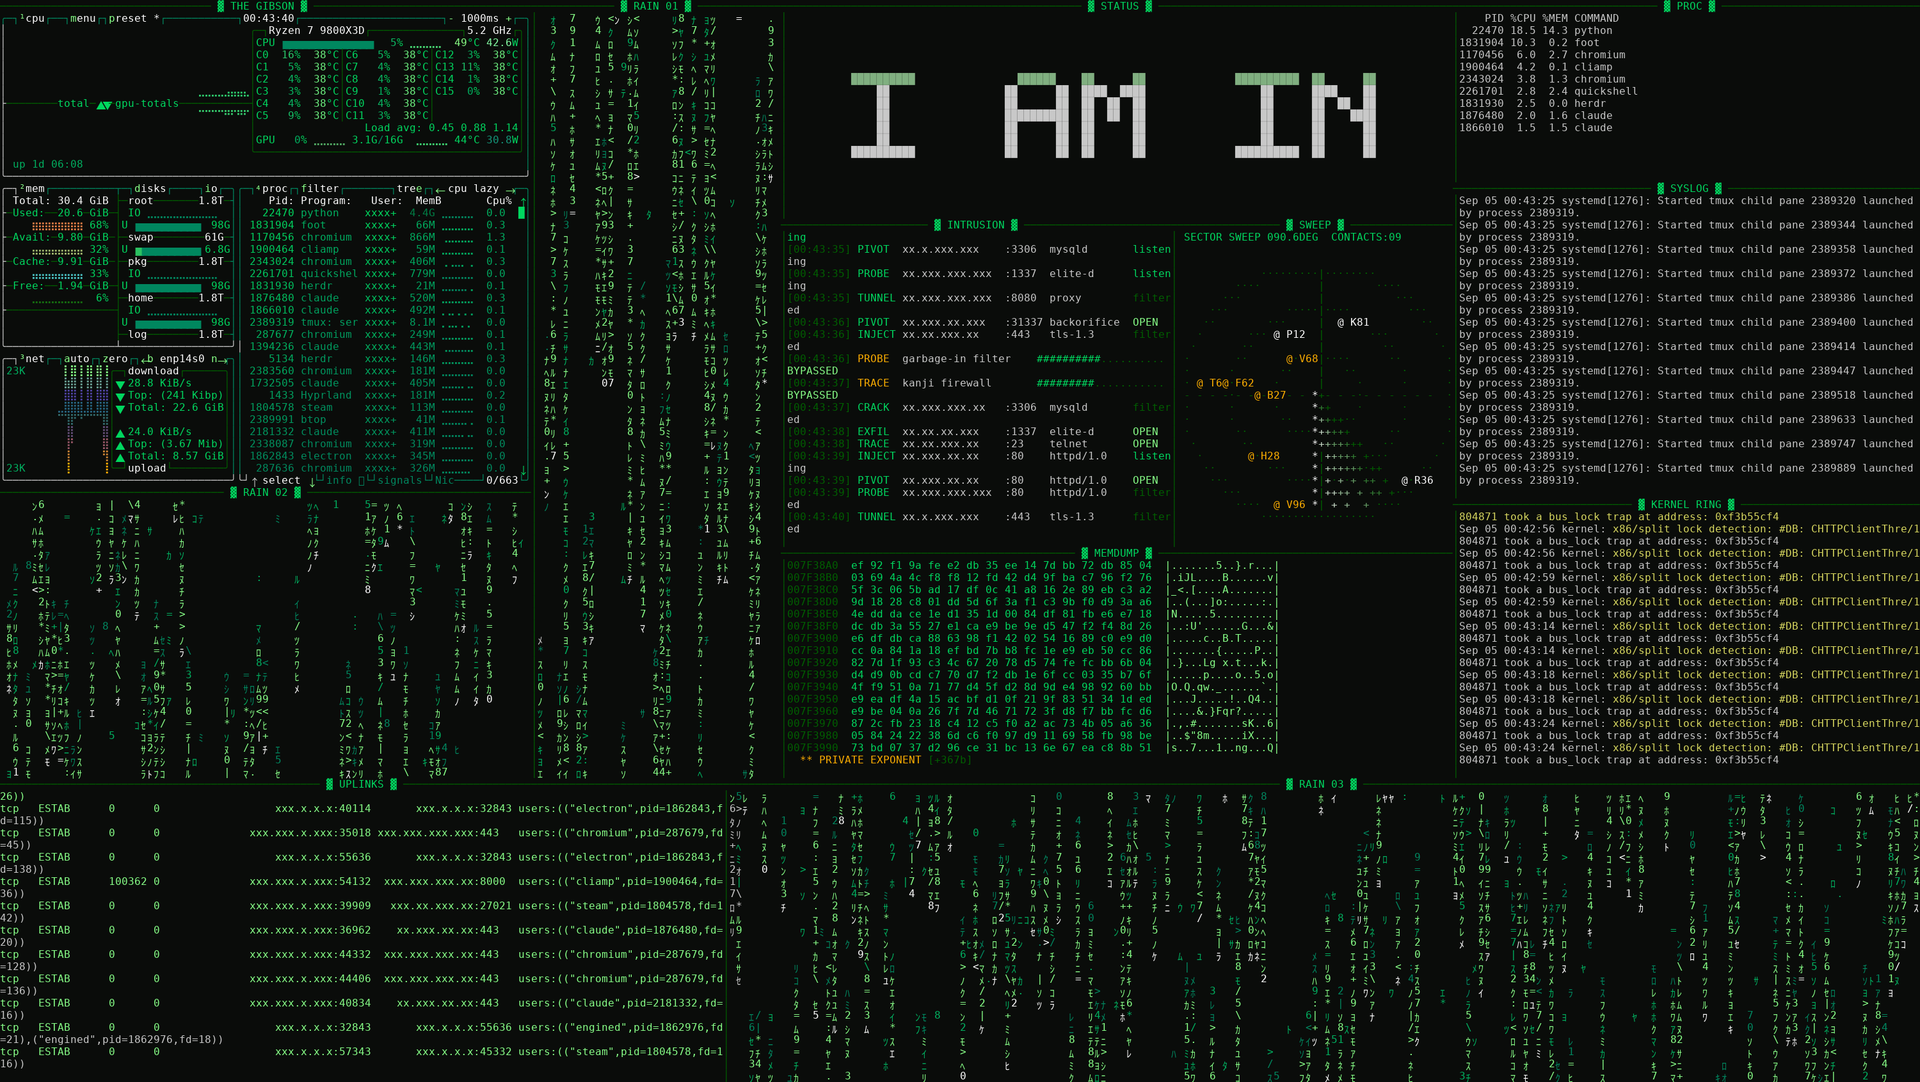
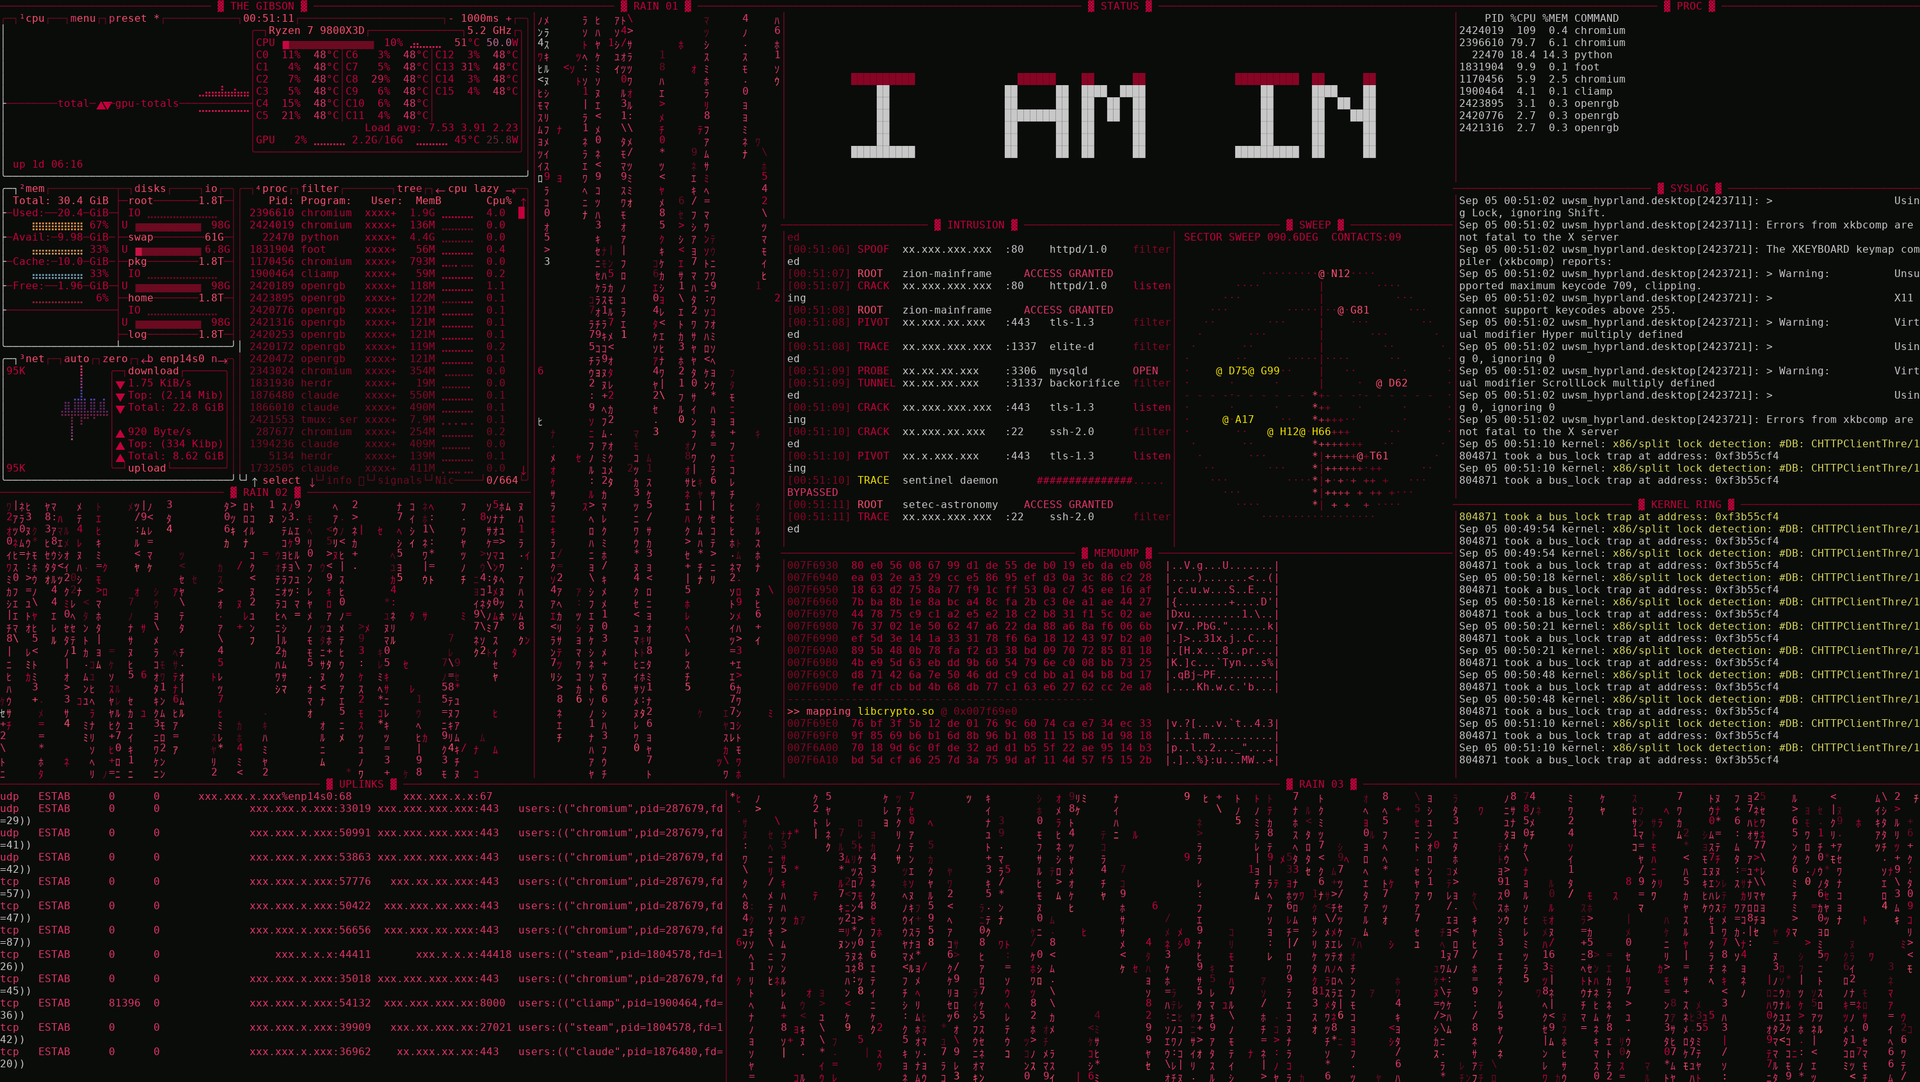
Make the store image theme-matched rather than phosphor green
The default palette follows the user's Omarchy theme, so the listing should
show that rather than the fixed green - a card in phosphor advertises a look
most people will not get on first run.

scripts/shot.py now resolves "theme" by reading the active theme's colors.toml
for the same eight roles the script uses, so pane borders match, and it leaves
btop's own themed config alone instead of generating one over the top.

preview.png is the grid in the current theme; docs/ keeps phosphor, amber and
cinema as the alternates.

Claude-Session: https://claude.ai/code/session_01FEFbj6q8c5Ut8iiVeoBWWv

diff --git a/scripts/shot.py b/scripts/shot.py
@@ -186,9 +186,43 @@ theme[process_end]="#{HEAD}"
 ROLES = ["HEAD", "BRIGHT", "MAIN", "MID", "DIM", "DEEP", "ALERT", "WARN"]
 
 
+THEME_COLORS = os.path.expanduser("~/.local/state/omarchy/current/theme/colors.toml")
+
+
+def theme_palette():
+    """The eight h4x0r roles read out of the active Omarchy theme."""
+    try:
+        text = open(THEME_COLORS, encoding="utf-8", errors="replace").read()
+    except OSError:
+        return None
+    vals = dict(re.findall(r'^\s*([a-z_]+)\s*=\s*"(#?[0-9a-fA-F]{6})"', text, re.M))
+
+    def pick(*names):
+        for n in names:
+            if n in vals:
+                return vals[n].lstrip("#")
+        return None
+
+    roles = [pick("bright_foreground", "light_foreground", "foreground"),
+             pick("light_foreground", "foreground", "accent"),
+             pick("foreground", "accent"),
+             pick("accent", "foreground"),
+             pick("dark_foreground", "muted"),
+             pick("muted", "selection", "lighter_background"),
+             pick("yellow", "orange", "bright_yellow"),
+             pick("bright_red", "red", "magenta")]
+    return " ".join(roles) if all(roles) else None
+
+
+def resolve_palette(name):
+    if name in ("theme", "auto", "omarchy"):
+        return theme_palette()
+    return PALETTES.get(name)
+
+
 def btop_config(palette, tmp):
     """A throwaway XDG config so btop draws in the same palette as everything else."""
-    hexes = PALETTES.get(palette)
+    hexes = resolve_palette(palette)
     if not hexes:
         return None
     colors = dict(zip(ROLES, hexes.split()))
@@ -311,7 +345,7 @@ def render(grid, cols, rows, size, out, width):
 
 
 def border_colors(palette):
-    hexes = PALETTES.get(palette)
+    hexes = resolve_palette(palette)
     if not hexes:
         return (0, 70, 40), (0, 190, 110)
     c = dict(zip(ROLES, hexes.split()))

diff --git a/README.md b/README.md
@@ -10,7 +10,10 @@ asymmetrically so it reads as a break-in rather than a spreadsheet.
 
 </div>
 
-![the grid layout](preview.png)
+![the grid layout, matched to the current Omarchy theme](preview.png)
+
+<sub>The grid layout, in the colours of the desktop it is running on — that is
+the default. Six fixed CRT palettes are a click away.</sub>
 
 ---
 
@@ -149,9 +152,12 @@ layout in a detached tmux session at an exact character size, reads the panes
 back as ANSI text, and draws the image itself.
 
 ```bash
-scripts/shot.py --layout grid --palette phosphor --out preview.png
-scripts/shot.py --layout cinema --width 1600 --out docs/cinema.png
+scripts/shot.py --layout grid --palette theme --out preview.png
+scripts/shot.py --layout cinema --palette phosphor --out docs/cinema.png
 ```
+
+`--palette theme` reads the active Omarchy theme, the same as the plugin does,
+so a screenshot shows what the machine it ran on actually looks like.
 
 It generates a matching btop theme on the fly so the monitor pane is in the
 same palette as everything else, and masks IPv4 addresses and your username by
@@ -160,8 +166,10 @@ the frame.
 
 | | |
 |---|---|
-| ![cinema](docs/cinema.png) | ![amber](docs/amber.png) |
-| `--layout cinema` | `--palette amber` |
+| ![phosphor](docs/phosphor.png) | ![amber](docs/amber.png) |
+| `--palette phosphor` | `--palette amber` |
+| ![cinema](docs/cinema.png) | |
+| `--layout cinema` | |
 
 ## Notes
 
